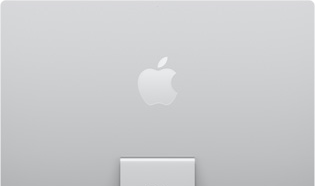
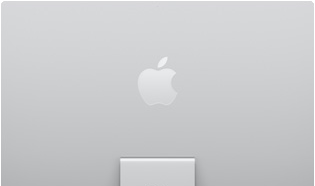
🐛 Update files
* White borders removed from iMacs
* Added custom background colors
* Added color pink

Changed region(s): [[0.0, 0.0538, 0.0286, 1.0], [0.9714, 0.1344, 1.0, 1.0], [0.0286, 0.0, 0.9714, 0.0269]]

diff --git a/main.js b/main.js
@@ -8,9 +8,12 @@ document.querySelector(".content form").addEventListener("submit", (ele) => {
   else if(document.querySelector("form input[name='inp_memoji']").value) document.querySelector(".errormsg").textContent = "", document.querySelector(".errormsg").style.display = "none";
   else if(document.querySelector("form input[name='inp_memoji_color']:checked").value) document.querySelector(".errormsg").textContent = "", document.querySelector(".errormsg").style.display = "none";
 
+  document.querySelector("canvas")?.remove();
+
   const canvas = document.createElement('canvas');
   const input = {
     color: document.querySelector("form input[name='inp_memoji_color']:checked").value,
+    bgcolor: document.querySelector("form input[name='inp_memoji_bgcolor']:checked").value,
     head: document.querySelector("form input[name='inp_memoji_size']:checked").value
   };
 
@@ -18,8 +21,6 @@ document.querySelector(".content form").addEventListener("submit", (ele) => {
   canvas.width = 512;
   canvas.height = 512;
   canvas.style.zIndex = 8;
-  canvas.style.position = "absolute";
-  canvas.style.border = "1px solid";
 
   document.querySelector("body .content .adjust").appendChild(canvas);
 
@@ -31,11 +32,13 @@ document.querySelector(".content form").addEventListener("submit", (ele) => {
     head: input.head
   }
 
-  if(input.color === "yellow" || input.color === "orange") setting.background = "#F9DAAA";
-  else if(input.color === "blue") setting.background = "#CDEAFB";
-  else if(input.color === "purple") setting.background = "#D9D0F9";
-  else if(input.color === "green") setting.background = "#CAF0CB";
-  else if(input.color === "silver") setting.background = "#D5D5D7";
+  if(input.bgcolor === "yellow") setting.background = "#FBEAA9";
+  else if(input.bgcolor === "orange") setting.background = "#F9DAAA";
+  else if(input.bgcolor === "blue") setting.background = "#CDEAFB";
+  else if(input.bgcolor === "purple") setting.background = "#D9D0F9";
+  else if(input.bgcolor === "pink") setting.background = "#F6C7D3";
+  else if(input.bgcolor === "green") setting.background = "#CAF0CB";
+  else if(input.bgcolor === "silver") setting.background = "#D5D5D7";
 
   const ctx = canvas.getContext("2d");
 

diff --git a/index.html b/index.html
@@ -32,12 +32,31 @@
           <label for="color_blue">Blue</label><br>
           <input type="radio" id="color_purple" name="inp_memoji_color" value="purple">
           <label for="color_purple">Purple</label><br>
+          <input type="radio" id="color_pink" name="inp_memoji_color" value="pink">
+          <label for="color_pink">Pink</label><br>
           <input type="radio" id="color_orange" name="inp_memoji_color" value="orange">
           <label for="color_orange">Orange</label><br>
           <input type="radio" id="color_green" name="inp_memoji_color" value="green">
           <label for="color_green">Green</label><br>
           <input type="radio" id="color_silver" name="inp_memoji_color" value="silver">
           <label for="color_silver">Silver</label><br>
+
+          <p style="font-size: 20px; font-weight: bold;">Background color</p>
+
+          <input type="radio" id="bgcolor_yellow" name="inp_memoji_bgcolor" value="yellow">
+          <label for="bgcolor_yellow">Yellow</label><br>
+          <input type="radio" id="bgcolor_blue" name="inp_memoji_bgcolor" value="blue">
+          <label for="bgcolor_blue">Blue</label><br>
+          <input type="radio" id="bgcolor_purple" name="inp_memoji_bgcolor" value="purple">
+          <label for="bgcolor_purple">Purple</label><br>
+          <input type="radio" id="bgcolor_pink" name="inp_memoji_bgcolor" value="pink">
+          <label for="bgcolor_pink">Pink</label><br>
+          <input type="radio" id="bgcolor_orange" name="inp_memoji_bgcolor" value="orange">
+          <label for="bgcolor_orange">Orange</label><br>
+          <input type="radio" id="bgcolor_green" name="inp_memoji_bgcolor" value="green">
+          <label for="bgcolor_green">Green</label><br>
+          <input type="radio" id="bgcolor_silver" name="inp_memoji_bgcolor" value="silver">
+          <label for="bgcolor_silver">Silver</label><br>
 
           <input type="submit" name="inp_submit" value="Submit">
           <p style="font-size: 20px; margin-top: 15px; color: #FF4242; display: none;" class="errormsg"></p>
